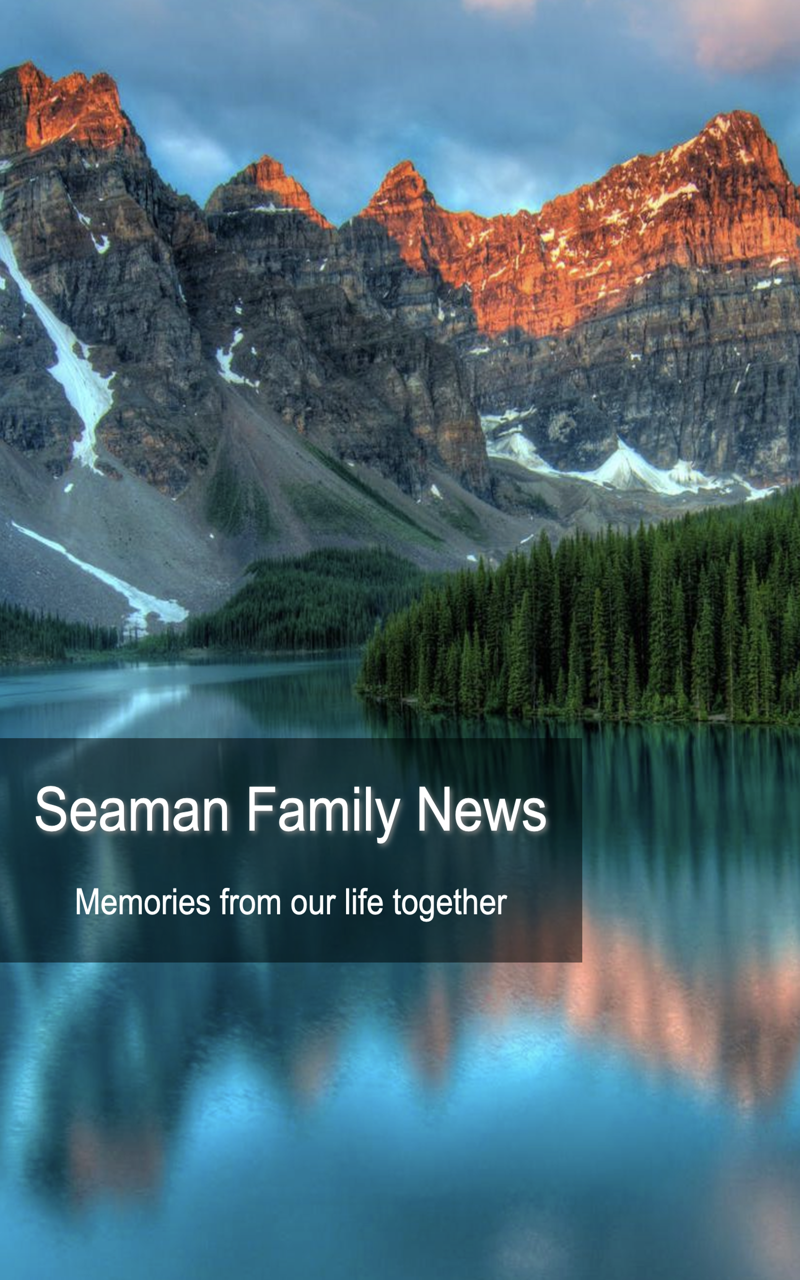
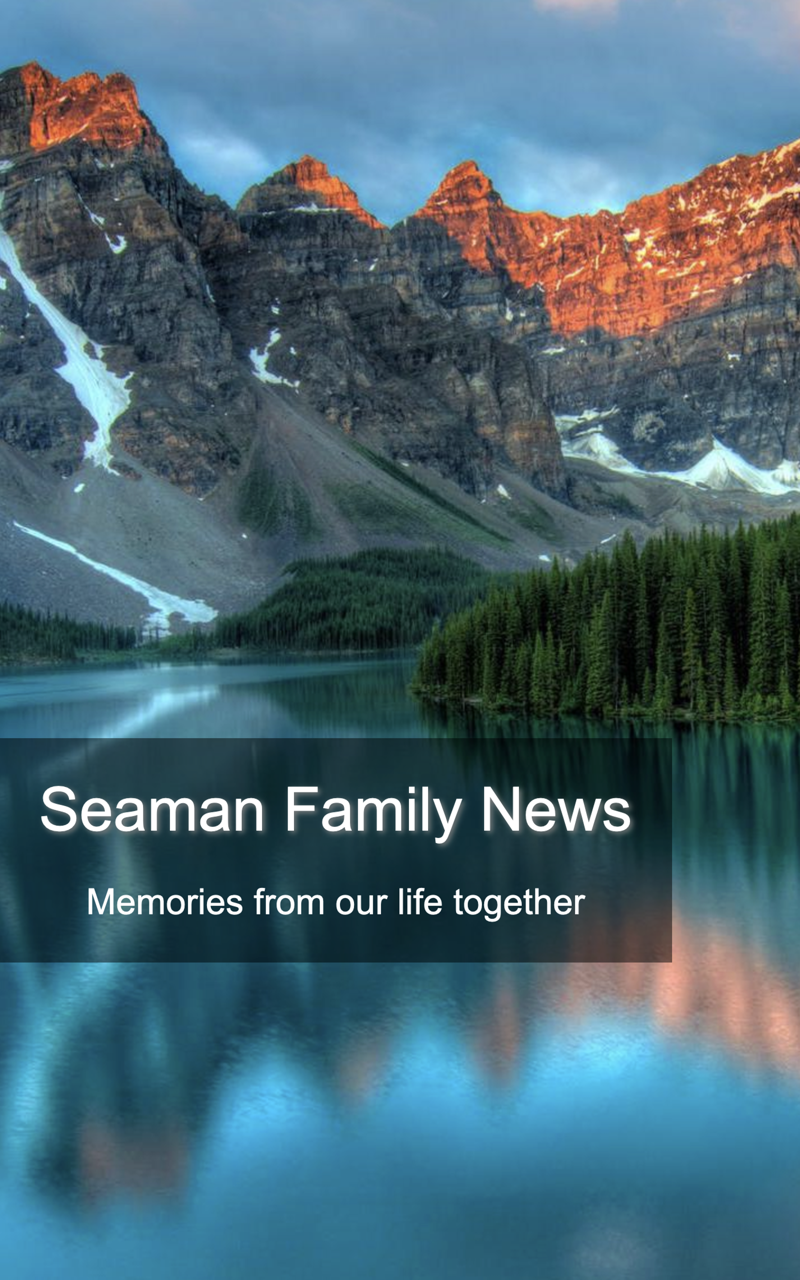
Resize book covers

diff --git a/workshop/resize_image.py b/workshop/resize_image.py
@@ -18,8 +18,7 @@ def create_cover_images(path):
     image = Image.open(path)
     print(f'Image: {path} Size: {image.size[0]}x{image.size[1]}')
     print(f'Shape: 1000x{image.size[1]*1000/image.size[0]}')
-
-    # image = crop_image(image)
+    image = crop_image(image)
 
     image = save_image(image, path, 1600)
     image = save_image(image, path, 800)
@@ -27,16 +26,16 @@ def create_cover_images(path):
     image = save_image(image, path, 200)
 
 
-def crop_cover_image():
-    path1 = 'Documents/images/CoverArtwork/Originals/pexels-asad-photo-maldives-9470508.jpg'
-    path2 = path1.replace('.jpg', '-crop.jpg')
-    im = Image.open(path1)
-    newsize = im.size[1]*10/16, im.size[1]
-    print(im.size)
-    # offset = im.size[0]/2
-    offset = 0
-    im = im.crop((offset, 0, newsize[0]+offset, newsize[1]))
-    im.save(path2)
+# def crop_cover_image():
+#     path1 = 'Documents/images/CoverArtwork/Originals/pexels-asad-photo-maldives-9470508.jpg'
+#     path2 = path1.replace('.jpg', '-crop.jpg')
+#     im = Image.open(path1)
+#     newsize = im.size[1]*10/16, im.size[1]
+#     print(im.size)
+#     # offset = im.size[0]/2
+#     offset = 0
+#     im = im.crop((offset, 0, newsize[0]+offset, newsize[1]))
+#     im.save(path2)
 
 
 def crop_image(image):
@@ -46,9 +45,11 @@ def crop_image(image):
     else:
         print('Too Wide')
         size = int(image.size[1] * 1000 / 1600), image.size[1]
-    offset = 1200, 0
-    image = image.crop((offset[0], offset[1], size[0]+offset[0], size[1]+offset[1]))
-    print(f'Crop Size: {size[0]}x{size[1]}', f'Shape: 1000x{int(size[1]*1000/size[0])}')
+    offset = 0, 0
+    image = image.crop(
+        (offset[0], offset[1], size[0]+offset[0], size[1]+offset[1]))
+    print(f'Crop Size: {size[0]}x{size[1]}',
+          f'Shape: 1000x{int(size[1]*1000/size[0])}')
     print(f'Crop Shape: 1000x{image.size[1]*1000/image.size[0]}')
     return image
 
@@ -66,7 +67,8 @@ def save_image(image, path, size):
 def downsample_photos(directory):
     for f in listdir(directory):
         infile = f'{directory}/{f}'
-        outfile = infile.replace('.png', '.jpg').replace('.jpeg', '.jpg').replace('.jpg', '.800.jpg')
+        outfile = infile.replace('.png', '.jpg').replace(
+            '.jpeg', '.jpg').replace('.jpg', '.800.jpg')
         create_thumbnail(infile, outfile)
 
 
@@ -101,5 +103,3 @@ def resize_book_cover():
     resize_image_file(path, 800)
     resize_image_file(path, 400)
     resize_image_file(path, 200)
-
-

diff --git a/probe/quick_test.py b/probe/quick_test.py
@@ -1,15 +1,12 @@
 from pathlib import Path
 
 from course.course import get_course, weekly_content
-from publish.book_tools import test_book_covers
-from publish.import_export import import_pub
+from publish.book_tools import create_book_covers
 from publish.models import Content, Pub
-from publish.pub import get_pub, get_pub_contents, update_pub_content
+from publish.pub import get_pub, get_pub_contents
 from publish.seamanslog import random_post
-from publish.toc import (content_file, create_pub_index, read_content_csv,
-                         table_of_contents, write_content_csv)
+from publish.toc import content_file, read_content_csv, write_content_csv
 from task.models import Activity, Task, TaskType
-from task.task import update_tasks
 from task.todo import edit_todo_list
 
 
@@ -20,8 +17,8 @@ def quick_test():
     # write()
     # update_tasks()
     # update_pub_content()
-    # test_book_covers()
-    Pub.objects.get(name='video').delete()
+    create_book_covers()
+    # Pub.objects.get(name='video').delete()
 
 
 def write():

diff --git a/publish/book_tools.py b/publish/book_tools.py
@@ -76,17 +76,21 @@ def write_book_outline(book):
     write_file(path, outline)
 
 
-def test_book_covers():
+def create_book_covers():
     # rebuild_books()
     # resize_book_cover()
 
-    path = "static/images/CoverArtwork/today-cover.png"
     path = "static/images/CoverArtwork/family-cover.png"
+    create_cover_images(path)
+    path = "static/images/CoverArtwork/today-cover.png"
+    create_cover_images(path)
+    path = "static/images/CoverArtwork/tech-cover.png"
+    create_cover_images(path)
+    # path = "static/images/CoverArtwork/write-cover.png"
+    # create_cover_images(path)
     path = "static/images/CoverArtwork/poem-cover.png"
     path = "static/images/CoverArtwork/journey-cover.png"
     path = "static/images/CoverArtwork/quest-cover.png"
-    create_cover_images(path)
-    # crop_cover_image()
 
 
 # def show_book_content():
